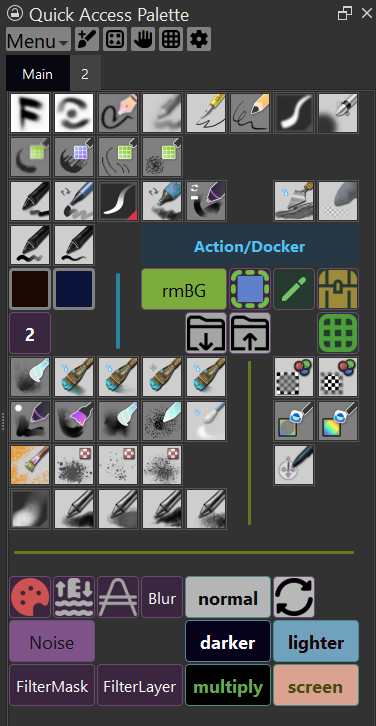
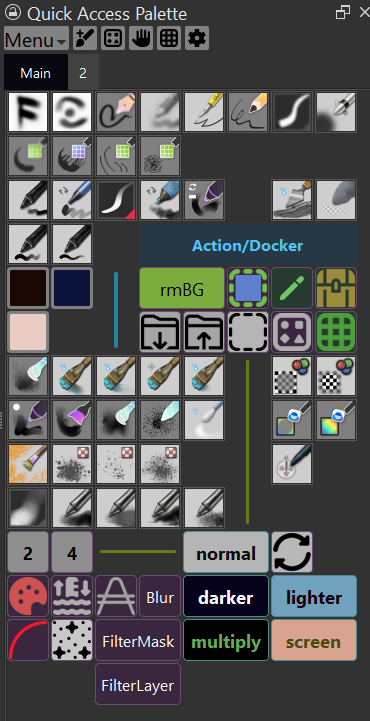
Resources dialog filter update

diff --git a/quick_access_manager/remaster/quick_access_palette/alias_config_dialog.py b/quick_access_manager/remaster/quick_access_palette/alias_config_dialog.py
@@ -390,14 +390,13 @@ class AliasConfigDialog(QDialog):
                 self.on_item_added()
 
     def _wrap_with_id_filter(self, table):
-        """Add an ID filter box above `table` - same "Filter by internal ID..."
-        behavior as the rest of the plugin's ID filter fields."""
+        """Add a filter box above `table` for the ID/display text column."""
         container = QWidget()
         container_layout = QVBoxLayout(container)
         container_layout.setContentsMargins(0, 0, 0, 0)
 
         filter_edit = QLineEdit()
-        filter_edit.setPlaceholderText("Filter by internal ID...")
+        filter_edit.setPlaceholderText("Filter by ID or display name...")
         filter_edit.textChanged.connect(
             lambda text, t=table: self._apply_id_filter(t, text)
         )
@@ -409,8 +408,10 @@ class AliasConfigDialog(QDialog):
         needle = text.lower()
         for row in range(table.rowCount()):
             id_item = table.item(row, 0)
-            item_id = id_item.data(Qt.UserRole) or "" if id_item else ""
-            table.setRowHidden(row, bool(needle and needle not in item_id.lower()))
+            display_text = id_item.text() if id_item else ""
+            table.setRowHidden(
+                row, bool(needle and needle not in display_text.lower())
+            )
 
     def create_color_button(self, color, is_set):
         button = QPushButton(color.name() if is_set else "Default")

diff --git a/CHANGELOG.md b/CHANGELOG.md
@@ -3,6 +3,10 @@ All notable changes to this project will be documented in this file.
 
 The format is based on [Keep a Changelog](https://keepachangelog.com/en/1.0.0/).
 
+## 2026-08-22
+### Changed
+- Resources dialog's filter now work on both Krita actions's ID and display name.
+
 ## 2026-08-21
 ### Added
 - **Remaster** (`remaster/`): the plugin was rewritten from scratch as the sole active implementation — a single free-layout grid Quick Access Palette (replacing the legacy Quick Brush Sets/Quick Actions dockers), a Quick Adjust docker, a HueSVC color selector, and a gesture system, each independently toggleable from Settings; 
